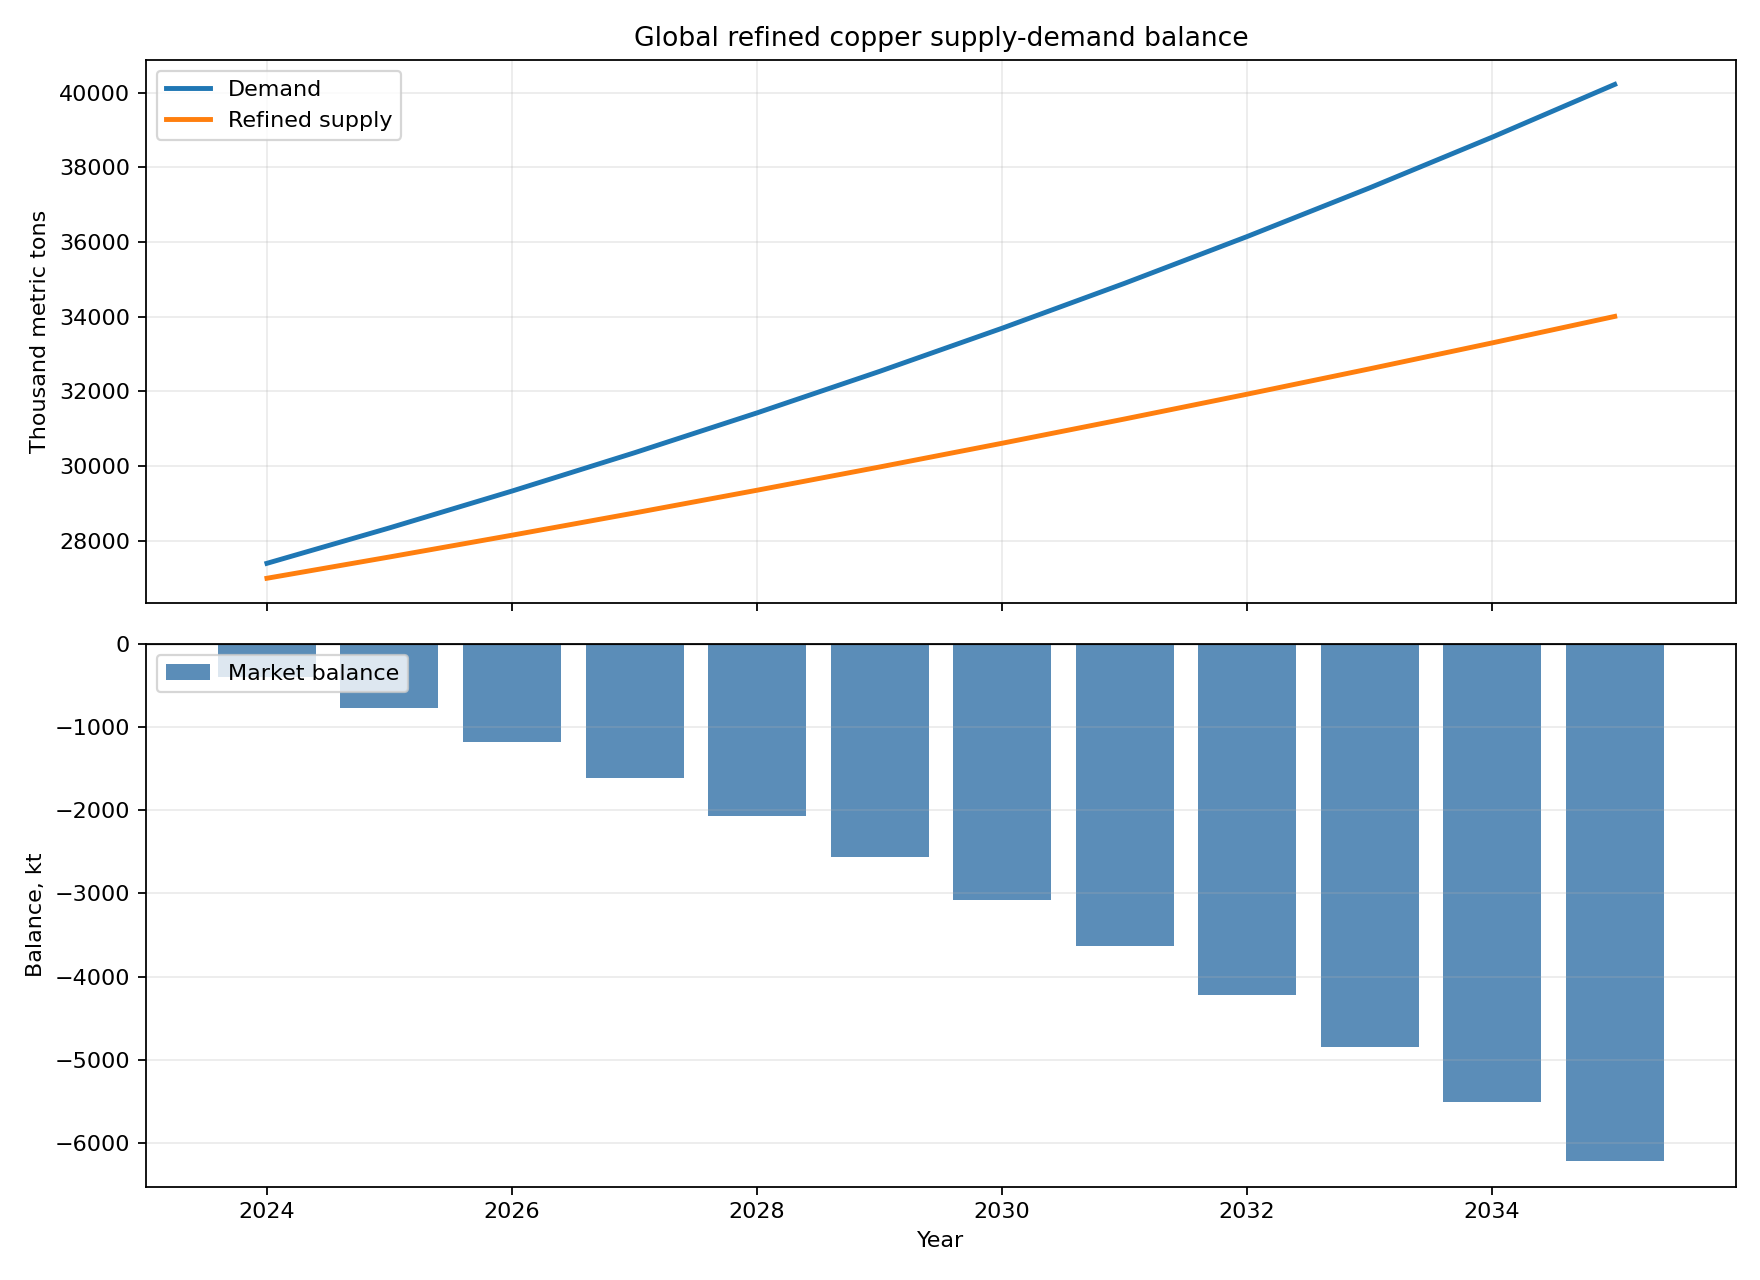
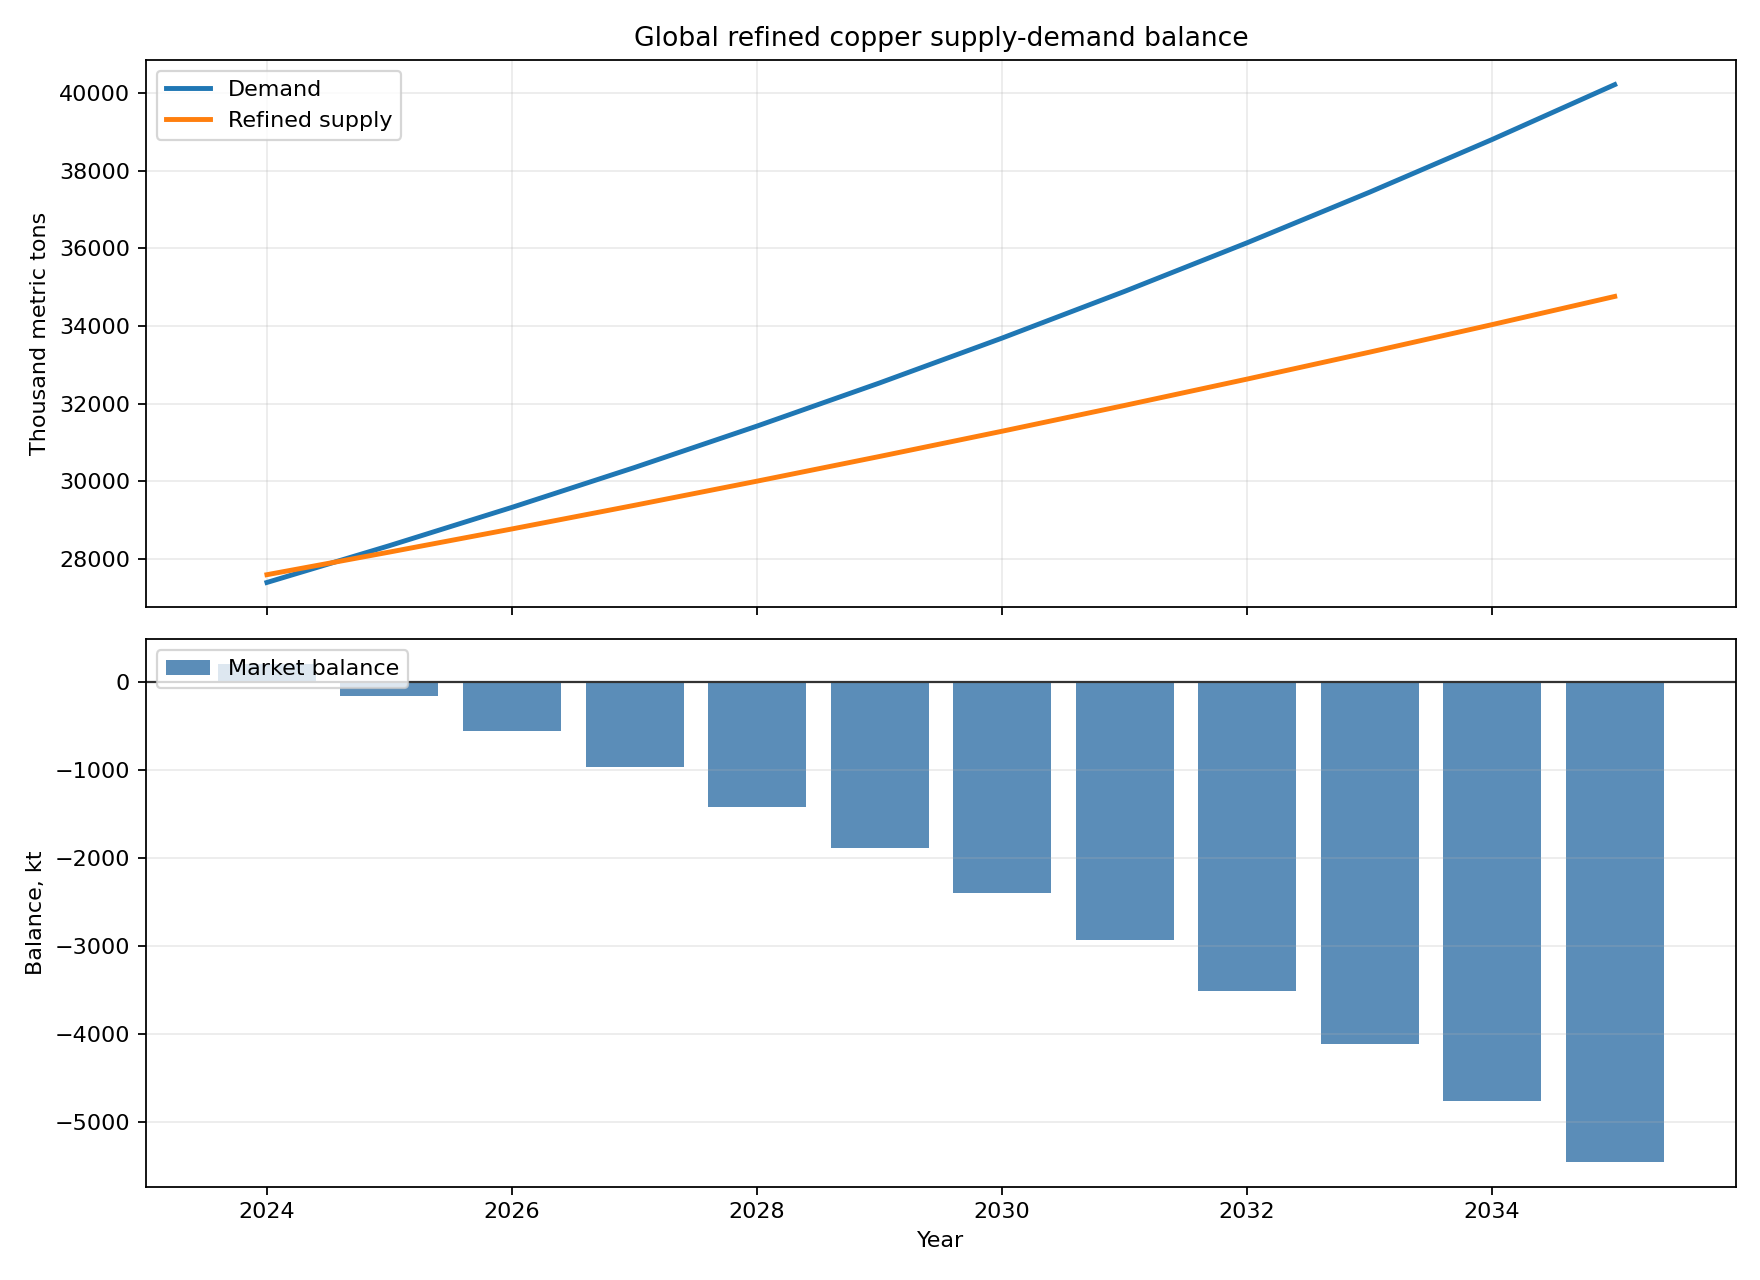
feat: update USGS refined supply baseline

diff --git a/dashboard/index.html b/dashboard/index.html
@@ -218,7 +218,7 @@
           <span class="badge">Assumptions, not sourced forecasts</span>
         </div>
         <div class="explanation-copy">
-          <p>The same public data baseline is used in every scenario: ICSG 2024 refined usage, USGS 2024 mine/refinery supply, and World Bank macro drivers.</p>
+          <p>The same public data baseline is used in every scenario: ICSG 2024 refined usage, USGS MCS 2026 2024 world mine/refinery supply, and World Bank macro drivers.</p>
           <p>The scenarios change only the assumption knobs: demand growth, transition-demand bonus, mine/refinery growth, disruption loss, and scrap/recycling response.</p>
           <p>Bull means stronger demand and tighter supply. Bear means weaker demand and looser supply. Base sits between them.</p>
         </div>
@@ -275,10 +275,11 @@
 
           <article class="source-card">
             <h3>Mine & Refinery Baseline</h3>
-            <p>USGS Mineral Commodity Summaries 2025 copper table, transcribed into the model seed files.</p>
-            <a href="https://pubs.usgs.gov/periodicals/mcs2025/mcs2025-copper.pdf" target="_blank" rel="noreferrer">USGS Copper PDF</a>
+            <p>USGS Mineral Commodity Summaries 2026 gives the updated 2024 world mine/refinery baseline: 23,000 kt mine production and 27,600 kt refinery production. The country table remains the local transcribed MCS 2025 seed.</p>
+            <a href="https://pubs.usgs.gov/periodicals/mcs2026/mcs2026.pdf" target="_blank" rel="noreferrer">USGS MCS 2026 PDF</a>
+            <a href="https://pubs.usgs.gov/periodicals/mcs2025/mcs2025-copper.pdf" target="_blank" rel="noreferrer">USGS MCS 2025 Copper PDF</a>
             <a href="../data/seed/usgs_mcs_2025_country_supply.csv" target="_blank" rel="noreferrer">Local transcribed country table</a>
-            <a href="../data/seed/usgs_mcs_2025_global_balance.csv" target="_blank" rel="noreferrer">Local global seed table</a>
+            <a href="../data/seed/usgs_mcs_global_balance.csv" target="_blank" rel="noreferrer">Local global seed table</a>
           </article>
 
           <article class="source-card">

diff --git a/dashboard/app.js b/dashboard/app.js
@@ -68,7 +68,7 @@ const supplyBreakdownColors = {
 const sourceUrls = {
   icsgFactbook: "https://icsg.org/copper-factbook/",
   usgsCopper:
-    "https://pubs.usgs.gov/periodicals/mcs2025/mcs2025-copper.pdf",
+    "https://pubs.usgs.gov/periodicals/mcs2026/mcs2026.pdf",
   ieaCriticalMinerals:
     "https://www.iea.org/reports/global-critical-minerals-outlook-2025",
   worldBankGdp: "https://data.worldbank.org/indicator/NY.GDP.MKTP.KD",
@@ -769,7 +769,7 @@ function renderScenarioExplanation(state) {
     {
       label: "Starting mine/refinery supply",
       source: sourceNote(
-        "USGS Mineral Commodity Summaries 2025 reports 2024 world mine production at 23,000 kt and refinery production at 27,000 kt.",
+        "USGS Mineral Commodity Summaries 2026 reports 2024 world mine production at 23,000 kt and refinery production at 27,600 kt.",
         [sourceLink("USGS copper table", sourceUrls.usgsCopper), ...configLinkItems()],
       ),
       format: (config) =>

diff --git a/copper_model/model.py b/copper_model/model.py
@@ -190,7 +190,7 @@ def run_model(
     if macro is None:
         macro = load_public_data(data_dir)
 
-    seed_global = pd.read_csv(data_dir / "seed" / "usgs_mcs_2025_global_balance.csv")
+    seed_global = pd.read_csv(data_dir / "seed" / "usgs_mcs_global_balance.csv")
     seed_country = pd.read_csv(data_dir / "seed" / "usgs_mcs_2025_country_supply.csv")
 
     base_year = int(config["base_year"])

diff --git a/README.md b/README.md
@@ -5,7 +5,8 @@ Python model for a global refined copper supply-demand balance.
 The model combines public macro feeds with public copper market baselines:
 
 - World Bank API: annual real GDP, industry share of GDP, and population indicators.
-- USGS Mineral Commodity Summaries 2025: global and country mine/refinery production baselines.
+- USGS Mineral Commodity Summaries 2026: updated 2024 world mine/refinery production baseline.
+- USGS Mineral Commodity Summaries 2025: country mine/refinery production seed table.
 - ICSG World Copper Factbook 2025: 2024 refined usage, regional usage, primary/secondary refined production context, capacity trends, supply constraints, and scrap/recycling context.
 
 This is a transparent planning model, not a trading model. It is built to make assumptions visible and easy to change.
@@ -86,10 +87,13 @@ The fetch step downloads:
 
 Seed tables in `data/seed/` are manually transcribed from:
 
+- U.S. Geological Survey, Mineral Commodity Summaries 2026, Copper:
+  `https://pubs.usgs.gov/periodicals/mcs2026/mcs2026.pdf`
 - U.S. Geological Survey, Mineral Commodity Summaries 2025, Copper:
   `https://pubs.usgs.gov/periodicals/mcs2025/mcs2025-copper.pdf`
 
 USGS reports the copper table in thousand metric tons of copper content unless otherwise specified.
+The global seed combines MCS 2025 history for 2023 with the MCS 2026 2024 update. The 2024 refined-supply baseline now uses the USGS MCS 2026 world refinery production figure of 27,600 kt. The country supply seed remains based on the transcribed MCS 2025 country table.
 
 The main non-USGS assumption sources are:
 